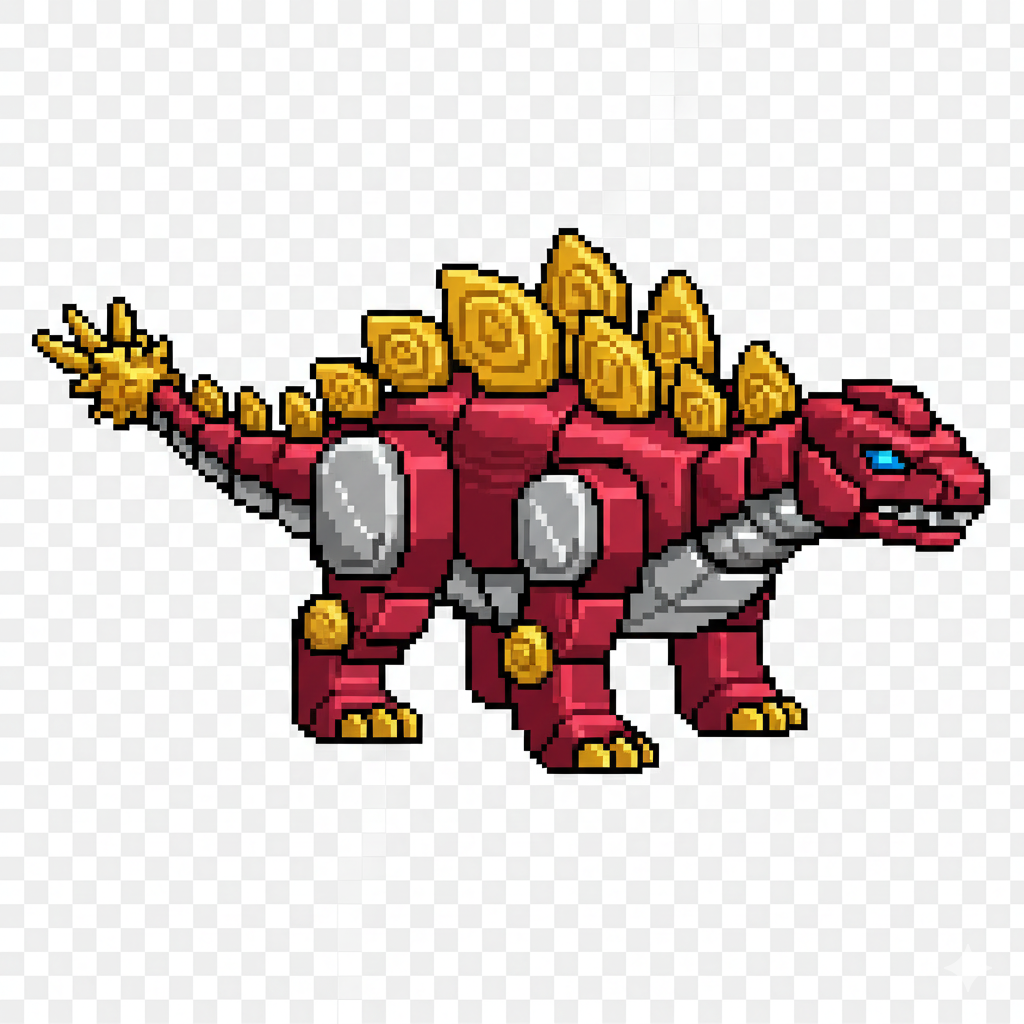
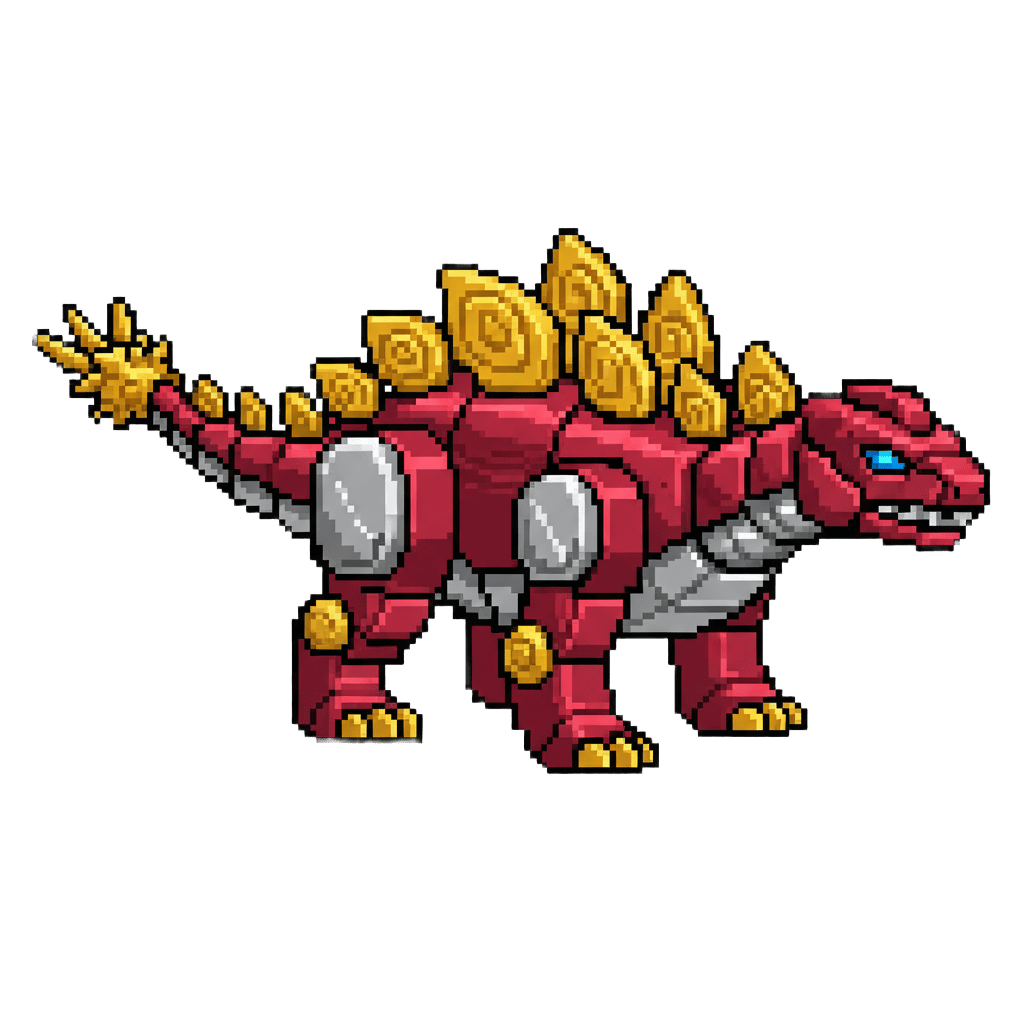
Robô andando e permanência

diff --git a/src/main/java/com/robot/GameApp.java b/src/main/java/com/robot/GameApp.java
@@ -1,67 +1,150 @@
 package com.robot;
 
+import com.google.gson.Gson;
 import com.robot.model.StegoZord;
+import com.robot.model.ZordSaveData;
+import javafx.animation.AnimationTimer;
 import javafx.application.Application;
 import javafx.scene.Scene;
 import javafx.scene.image.ImageView;
+import javafx.scene.input.MouseEvent;
 import javafx.scene.layout.Pane;
 import javafx.stage.Stage;
 import org.jetbrains.annotations.NotNull;
+
+import java.io.FileReader;
+import java.io.FileWriter;
+import java.util.logging.Level;
+import java.util.logging.Logger;
 
 import static com.robot.utils.IOFunction.println;
 
 
 public class GameApp extends Application {
-    public static final int TILE_GRID = 64;
+    private static final int TILE_GRID = 64;
+    private StegoZord stego;
+    private ImageView stegoSprite;
+    private double targetX = 5 * TILE_GRID;
+    private double targetY = 5 * TILE_GRID;
+    private final double moveSpeed = 4.0;
+
+    private final Gson gson = new Gson();
+
+    private static final Logger logger = Logger.getLogger(GameApp.class.getName());
+
     @Override
-    public void start(@NotNull Stage stage) throws Exception {
+    public void start(@NotNull Stage stage) {
+        stego = new StegoZord();
+        stegoSprite = stego.getZordImage();
+
+        loadGame();
+        
         Pane root = new Pane();
         root.setStyle("-fx-background-color: #3d8c40");
         int windowWidth = 1280;
         int windowHeight = 768;
         Scene scene = new Scene(root,  windowWidth, windowHeight);
 
-        StegoZord stegoZord = new StegoZord();
-        ImageView stegoIdle = stegoZord.getRobotImageIdle();
+        stegoSprite.setFitWidth(TILE_GRID);
+        stegoSprite.setPreserveRatio(true);
+        stegoSprite.setPickOnBounds(false);
 
-        stegoIdle.setFitWidth(TILE_GRID);
-        stegoIdle.setPreserveRatio(true);
-        stegoIdle.setPickOnBounds(true);
-
-        root.getChildren().add(stegoIdle);
+        root.getChildren().add(stegoSprite);
 
 
         int stegoCol = 5;
         int stegoRow = 5;
 
-        stegoIdle.setLayoutX(stegoCol * TILE_GRID);
-        stegoIdle.setLayoutY(stegoRow * TILE_GRID);
+        if (stegoSprite.getLayoutX() == 0 && stegoSprite.getLayoutY() == 0){
+            stegoSprite.setLayoutX(stegoCol * TILE_GRID);
+            stegoSprite.setLayoutY(stegoRow * TILE_GRID);
+        }
 
-        stage.setTitle("Meu teste de permanência");
-        stage.setScene(scene);
 
         root.setOnMouseClicked(event -> {
-            double targetX = event.getX();
-            double targetY = event.getY();
+            targetX = event.getX();
+            targetY = event.getY();
 
-            double spriteWidth = stegoIdle.getBoundsInParent().getWidth();
-            double spriteHeight = stegoIdle.getBoundsInParent().getHeight();
+            targetX -= stegoSprite.getBoundsInParent().getWidth() / 2;
+            targetY -= stegoSprite.getBoundsInParent().getHeight() / 2;
 
-            stegoIdle.setLayoutX(targetX - (spriteWidth / 2));
-            stegoIdle.setLayoutY(targetY - (spriteHeight / 2));
-
-            int novaCol = (int) (targetX -TILE_GRID);
-            int novaRow = (int) (targetY - TILE_GRID);
-
-            println("Stego movido! Posição em pixels: (" + targetX + ", " + targetY + ")");
-            println("Célula da matriz: (" + novaCol + ", " + novaRow + ")");
+            println("Novo alvo definido: " + targetX + ", " + targetY);
+            saveGame();
         });
 
-        stegoIdle.setOnMouseClicked(event -> {
-            event.consume();
-        });
+            stegoSprite.setOnMouseClicked(MouseEvent::consume);
 
+        AnimationTimer gameLoop = new AnimationTimer() {
+            @Override
+            public void handle(long now) {
+            double currentX = stegoSprite.getLayoutX();
+            double currentY = stegoSprite.getLayoutY();
+
+            double deltaX = targetX - currentX;
+            double deltaY = targetY - currentY;
+            double distance = Math.sqrt(Math.pow(deltaX, 2) + Math.pow(deltaY, 2));
+
+            if (distance < moveSpeed) {
+                stegoSprite.setLayoutX(targetX);
+                stegoSprite.setLayoutY(targetY);
+
+                stego.showIdleAnimation();
+            } else {
+                double stepX = (deltaX / distance) * moveSpeed;
+                double stepY = (deltaY / distance) * moveSpeed;
+
+                stegoSprite.setLayoutX(currentX + stepX);
+                stegoSprite.setLayoutY(currentY + stepY);
+
+                stego.showWalkAnimation();
+            }
+            }
+        };
+
+        gameLoop.start();
+
+        stage.setTitle("Meu teste de animação");
+        stage.setScene(scene);
         stage.show();
+    }
+
+    private void saveGame() {
+        println("Salvando progresso...");
+        try (FileWriter writer = new FileWriter("saveTeste.json")) {
+            ZordSaveData saveFile = new ZordSaveData();
+
+            saveFile.name = stego.getName();
+            saveFile.zordType = stego.getClass().getSimpleName();
+            saveFile.energy = stego.getEnergy();
+
+            saveFile.x = targetX;
+            saveFile.y = targetY;
+
+            gson.toJson(saveFile, writer);
+
+            println("Progresso Salvo com sucesso!");
+        } catch (Exception e) {
+            logger.log(Level.SEVERE, "Falha ao salvar o jogo", e);
+        }
+    }
+
+    private void loadGame() {
+        println("Carregando progresso...");
+        try (FileReader reader = new FileReader("saveTeste.json")) {
+            ZordSaveData saveFile = gson.fromJson(reader, ZordSaveData.class);
+
+            if (saveFile != null) {
+                stegoSprite.setLayoutX(saveFile.x);
+                stegoSprite.setLayoutY(saveFile.y);
+
+                targetX = saveFile.x;
+                targetY = saveFile.y;
+
+                println("Progresso carregado com sucesso!");
+            }
+        } catch(Exception e) {
+            saveGame();
+        }
     }
 
     public static void main(String[] args) {

diff --git a/src/main/java/com/robot/model/Zord.java b/src/main/java/com/robot/model/Zord.java
@@ -1,6 +1,9 @@
 package com.robot.model;
 
 import com.robot.enums.ZordFunction;
+import com.robot.enums.ZordState;
+import javafx.animation.AnimationTimer;
+import javafx.geometry.Rectangle2D;
 import javafx.scene.image.Image;
 import javafx.scene.image.ImageView;
 
@@ -8,20 +11,78 @@ import java.io.InputStream;
 import java.util.HashMap;
 import java.util.Map;
 
-public abstract class Zord implements IMovable {
-    protected static final Map<String, Image> sprites = new HashMap<>();
+public abstract class Zord {
+    protected Map<String, Image> sprites = new HashMap<>();
     protected ImageView zordImageView;
-    protected static final String name;
-    protected static final ZordFunction function;
+    protected String name;
+    protected ZordFunction function;
     protected int energy;
 
-    public Zord(Image zordImageIdle, Image zordImageWalking, String name,  ZordFunction function) {
+    protected AnimationTimer animationLoop;
+    private ZordState currentState = ZordState.IDLE;
+
+    protected static final int SPRITE_COLUMNS = 6;
+    protected static final int SPRITE_FRAMES_TOTAL = 36;
+    protected final int frameWidth;
+    protected final int frameHeight;
+
+    protected int currentIdleFrame = 0;
+    protected int currentWalkFrame = 0;
+    private long lastUptade = 0;
+
+    public Zord(Image zordImageIdle, Image zordImageWalking, Image zordImageWork, String name,  ZordFunction function) {
         this.sprites.put("Idle", zordImageIdle);
         this.sprites.put("Walk", zordImageWalking);
+        this.sprites.put("Work", zordImageWork);
+
         this.zordImageView = new ImageView(zordImageIdle);
         this.name = name;
         this.function = function;
         this.energy = 100;
+
+        Image idleSheet = sprites.get("Idle");
+        this.frameWidth = (int) (idleSheet.getWidth() / SPRITE_COLUMNS);
+        this.frameHeight = (int) (idleSheet.getHeight() / SPRITE_COLUMNS);
+
+        initializeAnimationLoop();
+
+        this.animationLoop.start();
+    }
+
+    protected void initializeAnimationLoop() {
+        this.animationLoop = new AnimationTimer() {
+            private static final long FRAME_DURATION_MS = 83;
+
+            @Override
+            public void handle(long now) {
+                long nowMs = now / 1_000_000;
+
+                if (nowMs - lastUptade < FRAME_DURATION_MS) return;
+                lastUptade = nowMs;
+
+                int col, row, frame;
+
+                if (currentState == ZordState.WALKING) {
+                    currentWalkFrame++;
+                    if (currentWalkFrame >= SPRITE_FRAMES_TOTAL)
+                        currentWalkFrame = 0;
+                    frame = currentWalkFrame;
+                } else {
+                    currentIdleFrame++;
+                    if (currentIdleFrame >= SPRITE_FRAMES_TOTAL)
+                        currentIdleFrame = 0;
+                    frame = currentIdleFrame;
+                }
+
+                col = frame % SPRITE_COLUMNS;
+                row = frame / SPRITE_COLUMNS;
+
+                int offsetX = col * frameWidth;
+                int offsetY = row * frameHeight;
+
+                zordImageView.setViewport(new Rectangle2D(offsetX, offsetY, frameWidth, frameHeight));
+            }
+        };
     }
 
     public ImageView getZordImage() { return zordImageView; }
@@ -32,17 +93,15 @@ public abstract class Zord implements IMovable {
 
     public ZordFunction getFunction() { return function; }
 
-    @Override
-    public void move(double x, double y) {
-        this.zordImageView.setLayoutX(this.zordImageView.getLayoutX() + x);
-        this.zordImageView.setLayoutY(this.zordImageView.getLayoutY() + y);
-    }
-
     public void showWalkAnimation() {
+        if (currentState == ZordState.WALKING) return;
+        currentState = ZordState.WALKING;
         this.zordImageView.setImage(sprites.get("Walk"));
     }
 
     public void showIdleAnimation() {
+        if (currentState == ZordState.IDLE) return;
+        currentState = ZordState.IDLE;
         this.zordImageView.setImage(sprites.get("Idle"));
     }
 

diff --git a/src/main/java/com/robot/model/TriceraZord.java b/src/main/java/com/robot/model/TriceraZord.java
@@ -3,11 +3,11 @@ package com.robot.model;
 import javafx.scene.image.Image;
 import static com.robot.enums.ZordFunction.*;
 
-public class TriceraZord extends Zord {
-    private static final Image TRICERA_IMAGE_IDLE = loadingImageSprite("/TriceraZord (Dino Charge)/TriceraZord.png");
-    private static final Image TRICERA_IMAGE_WALKING = loadingImageSprite("/TriceraZord (Dino Charge)/TriceraWalking.png");
-
-    public TriceraZord() {
-        super(TRICERA_IMAGE_IDLE, TRICERA_IMAGE_WALKING, "Tricera Zord", MINER);
-    }
-}
+//public class TriceraZord extends Zord {
+//    private static final Image TRICERA_IMAGE_IDLE = loadingImageSprite("/TriceraZord (Dino Charge)/TriceraZord.png");
+//    private static final Image TRICERA_IMAGE_WALKING = loadingImageSprite("/TriceraZord (Dino Charge)/TriceraWalking.png");
+//
+//    public TriceraZord() {
+//        super(TRICERA_IMAGE_IDLE, TRICERA_IMAGE_WALKING, "Tricera Zord", MINER);
+//    }
+//}

diff --git a/src/main/java/com/robot/model/RedMagicZord.java b/src/main/java/com/robot/model/RedMagicZord.java
@@ -3,11 +3,11 @@ package com.robot.model;
 import javafx.scene.image.Image;
 import static com.robot.enums.ZordFunction.*;
 
-public class RedMagicZord extends Zord {
-    private static final Image RMZ_IMAGE_IDLE = loadingImageSprite("/RedMagicZord/RedMagicZord.png");
-    private static final Image RMZ_IMAGE_WALKING = loadingImageSprite("/RedMagicZord/RMZWalking.png");
-
-    public RedMagicZord() {
-        super(RMZ_IMAGE_IDLE, RMZ_IMAGE_WALKING, "Red Magic Zord", FIGHTER);
-    }
-}
+//public class RedMagicZord extends Zord {
+//    private static final Image RMZ_IMAGE_IDLE = loadingImageSprite("/RedMagicZord/RedMagicZord.png");
+//    private static final Image RMZ_IMAGE_WALKING = loadingImageSprite("/RedMagicZord/RMZWalking.png");
+//
+//    public RedMagicZord() {
+//        super(RMZ_IMAGE_IDLE, RMZ_IMAGE_WALKING, "Red Magic Zord", FIGHTER);
+//    }
+//}

diff --git a/src/main/java/com/robot/model/StegoZord.java b/src/main/java/com/robot/model/StegoZord.java
@@ -4,10 +4,11 @@ import javafx.scene.image.Image;
 import static com.robot.enums.ZordFunction.*;
 
 public class StegoZord extends Zord {
-    private static final Image STEGO_IMAGE_IDLE = loadingImageSprite("/StegoZord/StegoZord.png");
-    private static final Image STEGO_IMAGE_WALKING = loadingImageSprite("/StegoZord/StegoWalking.png");
+    private static final Image STEGO_IMAGE_IDLE = loadingImageSprite("/StegoZord/StegoIdle.png");
+    private static final Image STEGO_IMAGE_WALKING = loadingImageSprite("/StegoZord/StegoWalking.png/");
+    private static final Image STEGO_IMAGE_WORKING = loadingImageSprite("/StegoZord/StegoBuilding.png/");
 
     public StegoZord() {
-        super(STEGO_IMAGE_IDLE, STEGO_IMAGE_WALKING, "Stego Zord", BUILDER);
+        super(STEGO_IMAGE_IDLE, STEGO_IMAGE_WALKING, STEGO_IMAGE_WORKING, "Stego Zord", BUILDER);
     }
 }

diff --git a/src/main/java/com/robot/model/ZordSaveData.java b/src/main/java/com/robot/model/ZordSaveData.java
@@ -1,0 +1,14 @@
+package com.robot.model;
+
+
+import com.robot.enums.ZordFunction;
+
+public class ZordSaveData {
+    public String name;
+    public String zordType;
+    public double x;
+    public double y;
+    public int energy;
+
+    public ZordSaveData() {}
+}

diff --git a/src/main/java/com/robot/enums/ZordState.java b/src/main/java/com/robot/enums/ZordState.java
@@ -1,0 +1,7 @@
+package com.robot.enums;
+
+public enum ZordState {
+    IDLE,
+    WALKING,
+    FIGHTING
+}
